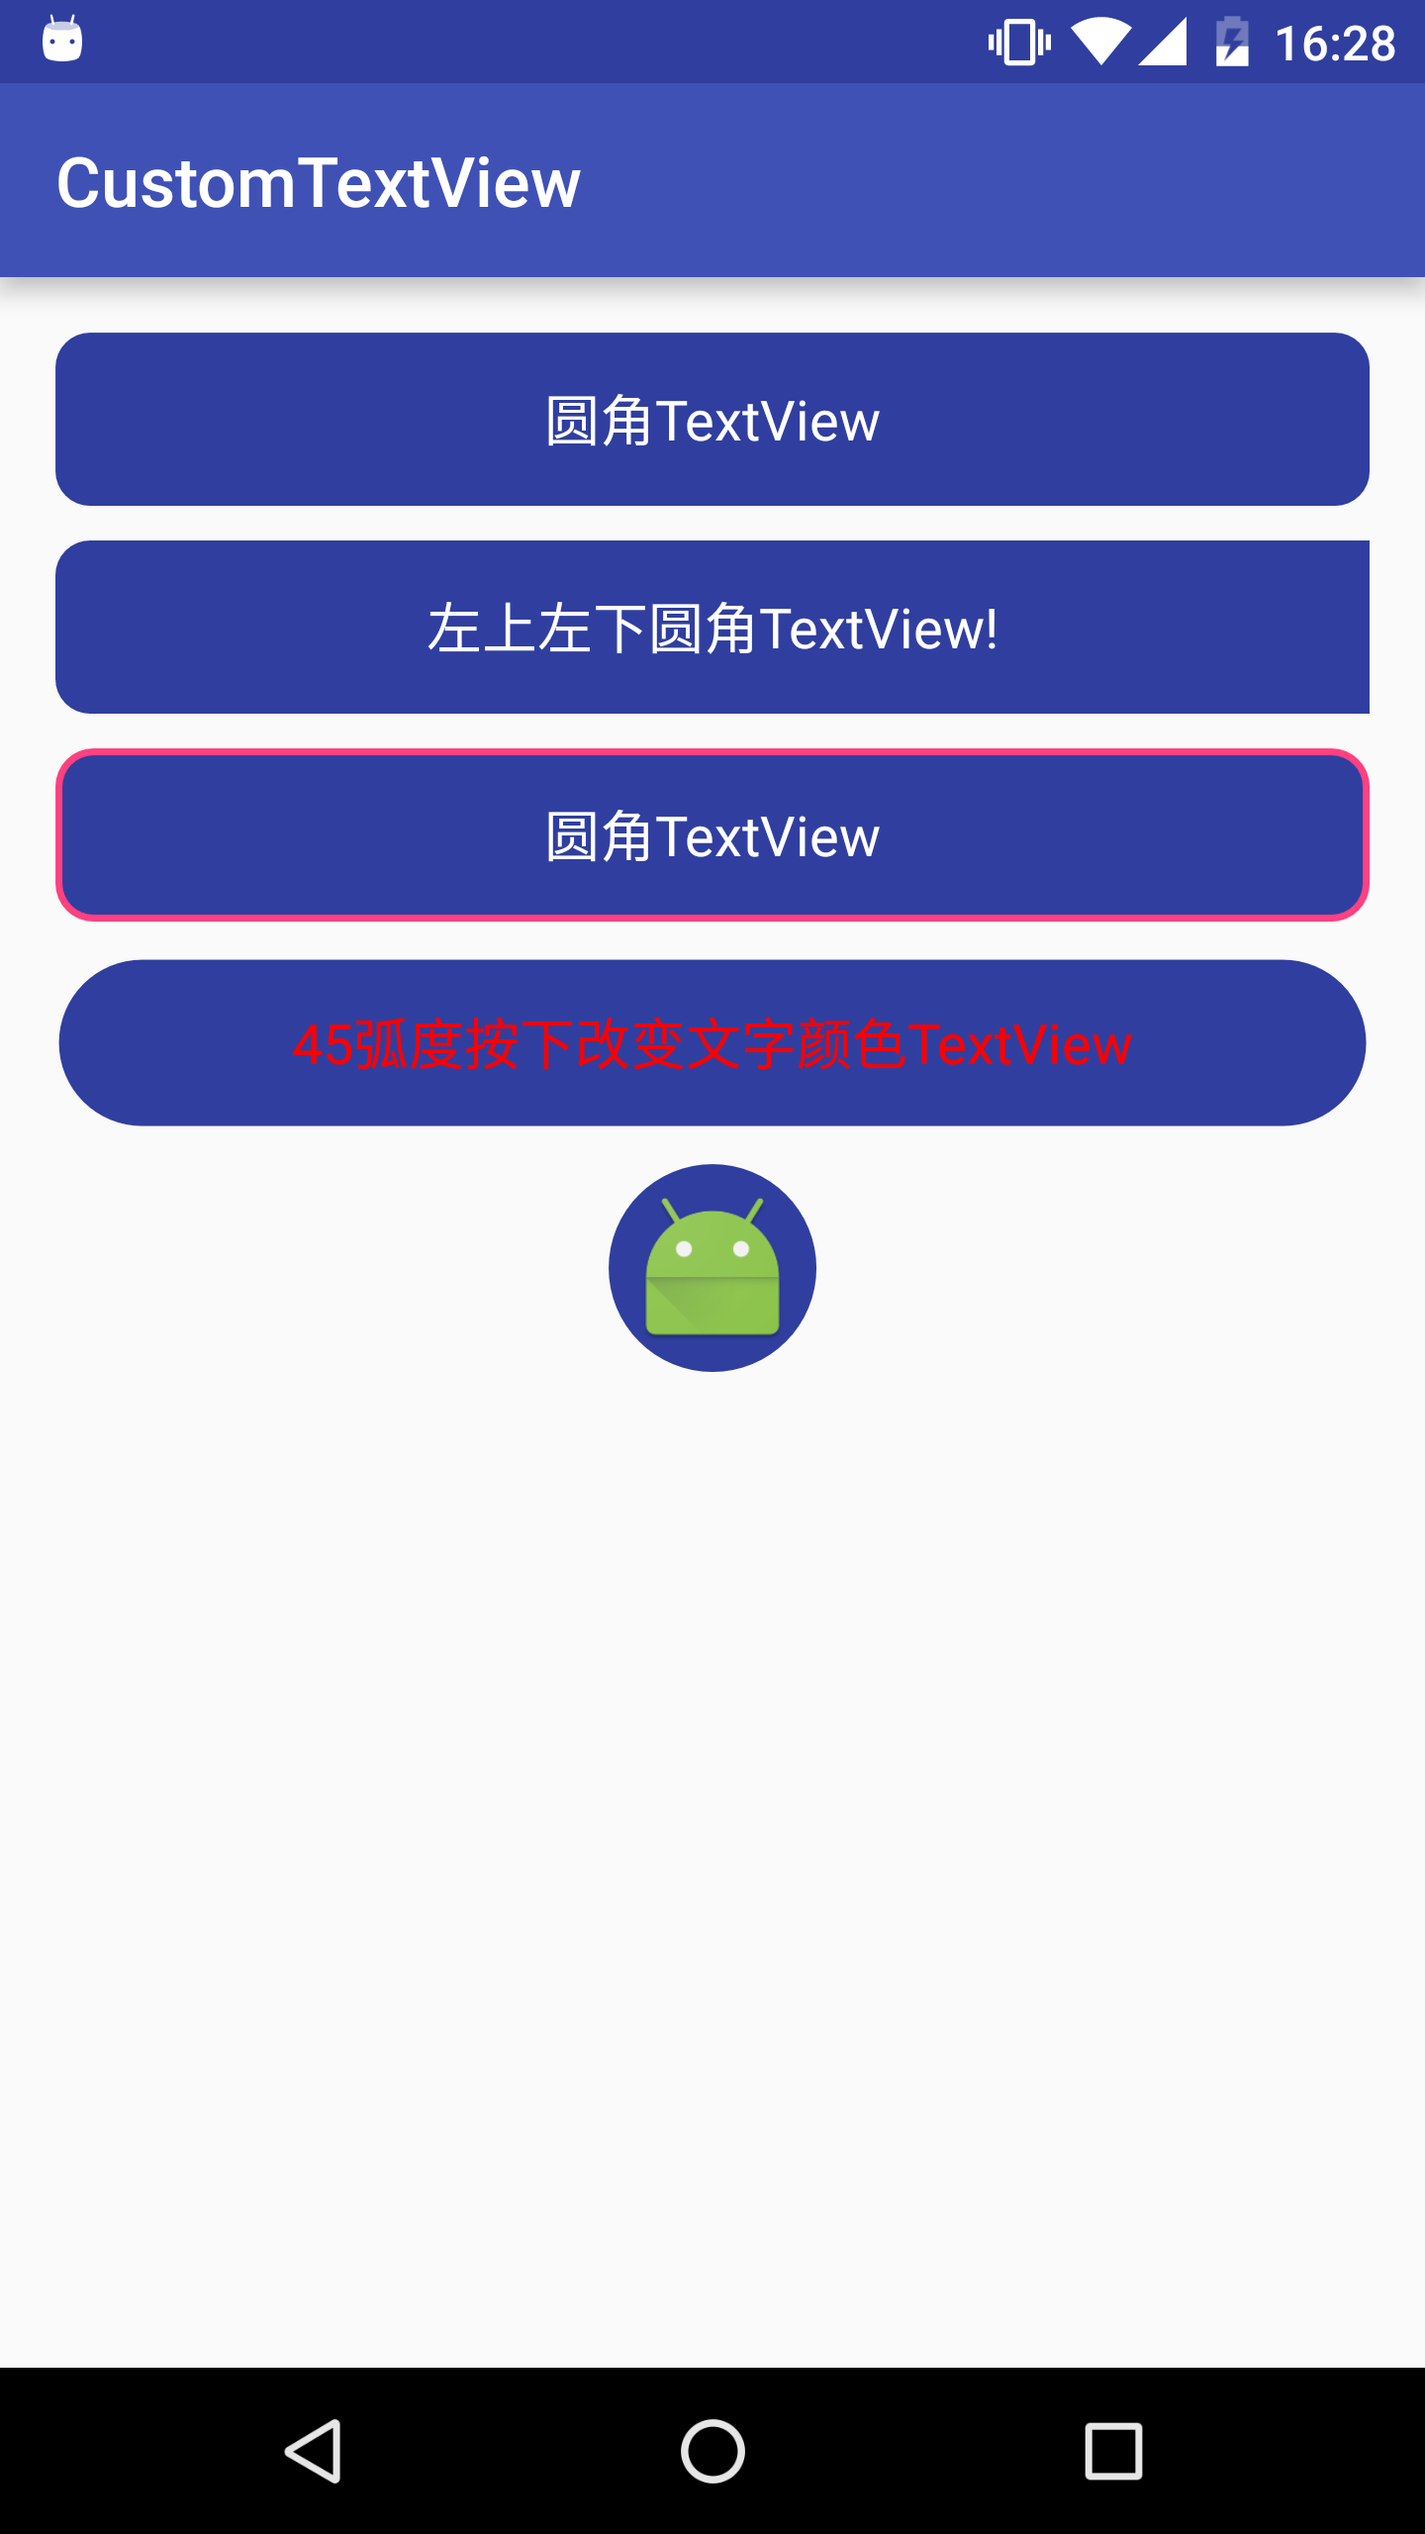
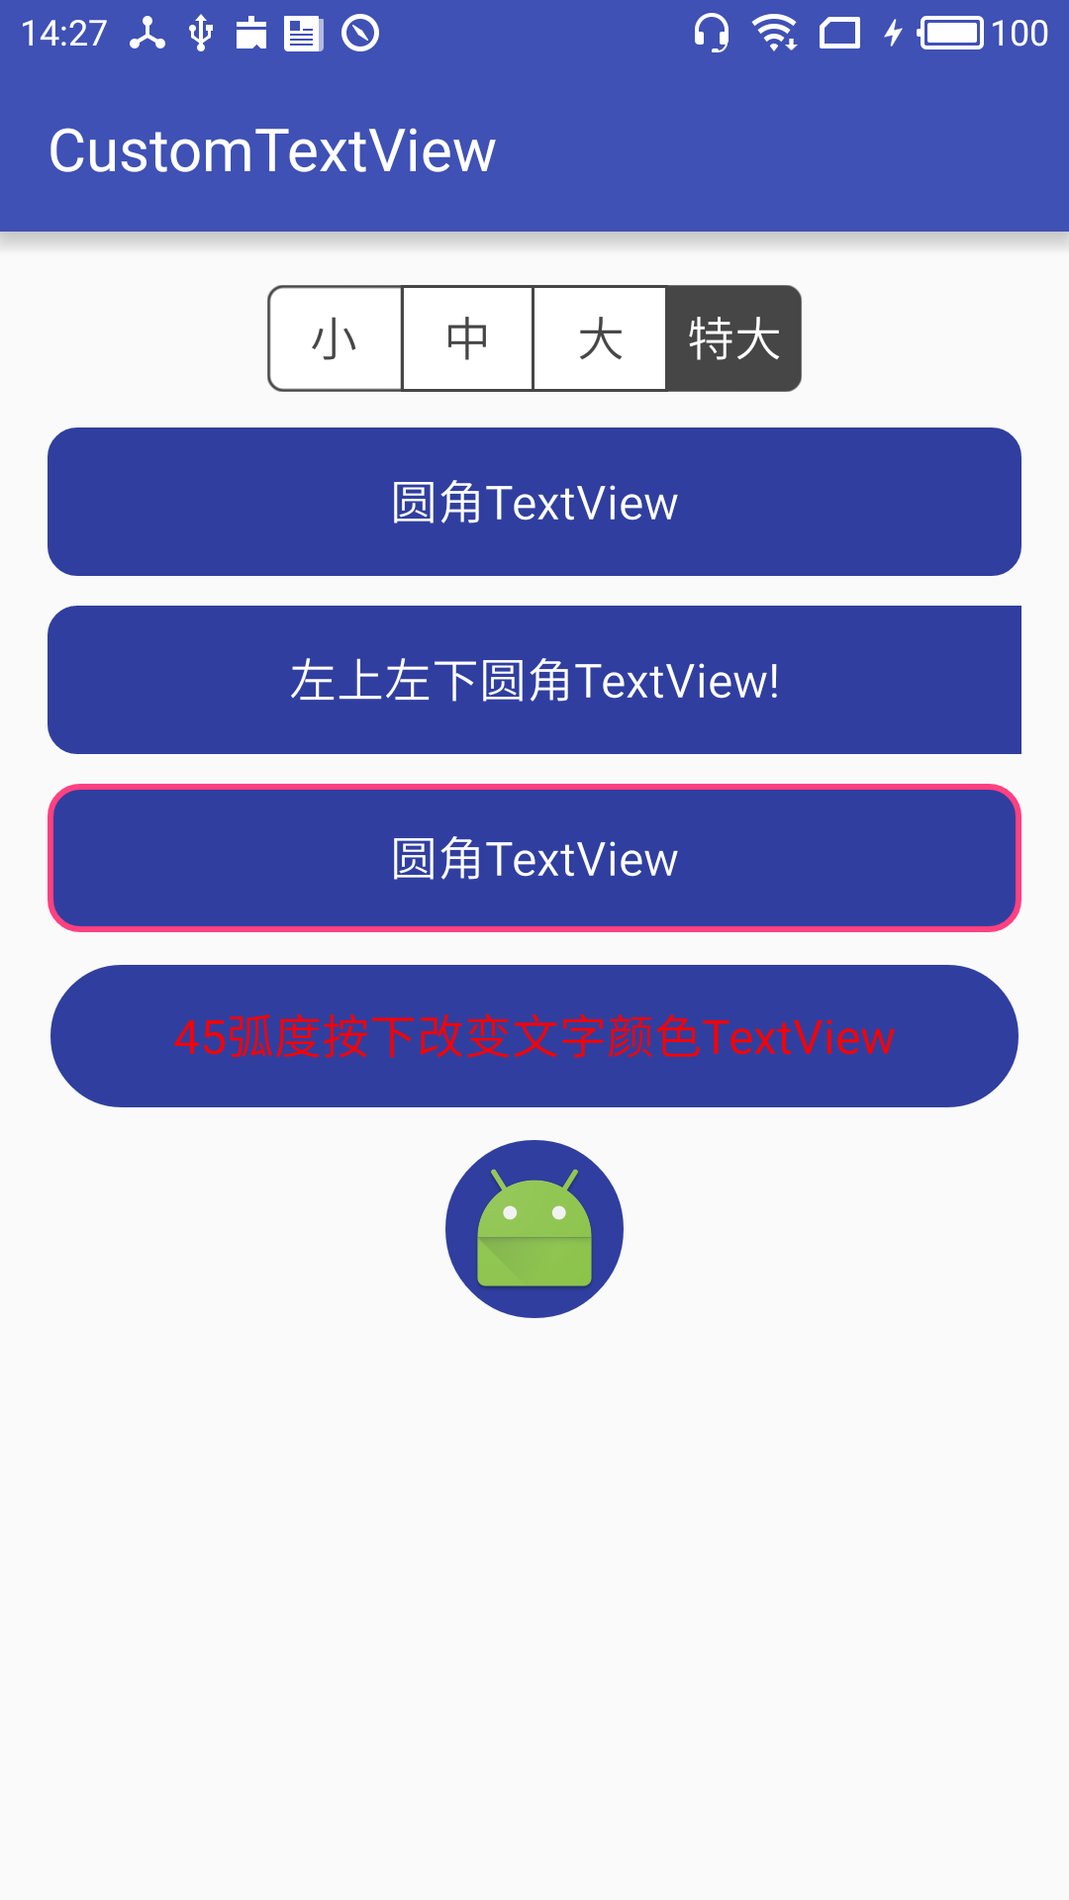
新增导航标签

diff --git a/library/src/main/java/com/library/CustomTextView.java b/library/src/main/java/com/library/CustomTextView.java
@@ -7,6 +7,8 @@ import android.graphics.Color;
 import android.graphics.drawable.BitmapDrawable;
 import android.graphics.drawable.Drawable;
 import android.graphics.drawable.GradientDrawable;
+import android.graphics.drawable.LayerDrawable;
+import android.graphics.drawable.StateListDrawable;
 import android.text.SpannableString;
 import android.text.Spanned;
 import android.text.style.ImageSpan;
@@ -21,7 +23,13 @@ import android.widget.TextView;
  */
 public class CustomTextView extends TextView {
 
-    private GradientDrawable drawable;
+    private GradientDrawable normalGD;
+    private GradientDrawable pressedGD;
+    private StateListDrawable selector;
+
+    private int strokeWidth;
+    private int radius;
+
 
     public CustomTextView(Context context) {
         super(context);
@@ -42,33 +50,41 @@ public class CustomTextView extends TextView {
     private void setAttributeSet(Context context, AttributeSet attrs) {
 
         TypedArray a = context.obtainStyledAttributes(attrs, R.styleable.customTextView);
-        int solid = a.getColor(R.styleable.customTextView_textSolidColor, Color.TRANSPARENT);
+//        int solid = a.getColor(R.styleable.customTextView_textSolidColor, Color.TRANSPARENT);
         int strokeColor = a.getColor(R.styleable.customTextView_textStrokeColor, Color.TRANSPARENT);
-        int radius = a.getDimensionPixelSize(R.styleable.customTextView_textRadius, 0);
+        radius = a.getDimensionPixelSize(R.styleable.customTextView_textRadius, 0);
         int leftTopRadius = a.getDimensionPixelSize(R.styleable.customTextView_textLeftTopRadius, 0);
         int leftBottomRadius = a.getDimensionPixelSize(R.styleable.customTextView_textLeftBottomRadius, 0);
         int rightTopRadius = a.getDimensionPixelSize(R.styleable.customTextView_textRightTopRadius, 0);
         int rightBottomRadius = a.getDimensionPixelSize(R.styleable.customTextView_textRightBottomRadius, 0);
-        int strokeWidth = a.getDimensionPixelSize(R.styleable.customTextView_textStrokeWidth, 0);
-        Drawable textDrawable = a.getDrawable(R.styleable.customTextView_textDrawable);
+        strokeWidth = a.getDimensionPixelSize(R.styleable.customTextView_textStrokeWidth, 0);
         int normalTextColor = a.getColor(R.styleable.customTextView_textNormalTextColor, Color.TRANSPARENT);
         int selectedTextColor = a.getColor(R.styleable.customTextView_textSelectedTextColor, Color.TRANSPARENT);
-
+        int normalSolidColor = a.getColor(R.styleable.customTextView_textNormalSolidColor,Color.TRANSPARENT);
+        int pressedSolidColor = a.getColor(R.styleable.customTextView_textPressedSolidColor,Color.TRANSPARENT);
+        boolean isSelected = a.getBoolean(R.styleable.customTextView_textIsSelected,false);
+        boolean noLeftStroke = a.getBoolean(R.styleable.customTextView_textNoLeftStroke,false);
+        boolean noRightStroke = a.getBoolean(R.styleable.customTextView_textNoRightStroke,false);
+        boolean noTopStroke = a.getBoolean(R.styleable.customTextView_textNoTopStroke,false);
+        boolean noBottomStroke = a.getBoolean(R.styleable.customTextView_textNoBottomStroke,false);
+        Drawable textDrawable = a.getDrawable(R.styleable.customTextView_textDrawable);
 
         a.recycle();
 
-        drawable = new GradientDrawable();
-        drawable.setStroke(strokeWidth, strokeColor);
-        drawable.setColor(solid);
+        selector = new StateListDrawable();
+        normalGD = new GradientDrawable();
+        pressedGD = new GradientDrawable();
 
-        if (radius > 0) {
-            drawable.setCornerRadius(radius);
-        } else if (leftTopRadius > 0 || leftBottomRadius > 0 || rightTopRadius > 0 || rightBottomRadius > 0) {
-            drawable.setCornerRadii(new float[]{leftTopRadius, leftTopRadius, rightTopRadius, rightTopRadius, rightBottomRadius, rightBottomRadius, leftBottomRadius, leftBottomRadius});
-        }
+        //set selected state
+        setPressedState(leftTopRadius,leftBottomRadius,rightBottomRadius,rightTopRadius,strokeColor,
+                pressedSolidColor,noLeftStroke,noRightStroke,noTopStroke,noBottomStroke,isSelected);
 
-        setBackgroundDrawable(drawable);
+        //set normal state
+        setNormalState(leftTopRadius,leftBottomRadius,rightBottomRadius,rightTopRadius,strokeColor,
+                normalSolidColor,noLeftStroke,noRightStroke,noTopStroke,noBottomStroke);
 
+        //设置selector
+        setBackgroundDrawable(selector);
 
         if (textDrawable != null) {
             BitmapDrawable bd = (BitmapDrawable) textDrawable;
@@ -85,22 +101,145 @@ public class CustomTextView extends TextView {
         if (normalTextColor != 0 && selectedTextColor != 0) {
             //设置state_selected状态时，和正常状态时文字的颜色
             setClickable(true);
-            int[][] states = new int[3][1];
-            states[0] = new int[]{android.R.attr.state_selected};
-            states[1] = new int[]{android.R.attr.state_pressed};
-            states[2] = new int[]{};
-            ColorStateList textColorSelect = new ColorStateList(states, new int[]{selectedTextColor, selectedTextColor, normalTextColor});
+            ColorStateList textColorSelect = null;
+
+            if (isSelected) { //是否可以选中
+                int[][] states = new int[2][1];
+                states[0] = new int[]{android.R.attr.state_selected};
+                states[1] = new int[]{};
+                textColorSelect = new ColorStateList(states, new int[]{selectedTextColor, normalTextColor});
+            }else{
+                int[][] states = new int[3][1];
+                states[0] = new int[]{android.R.attr.state_selected};
+                states[1] = new int[]{android.R.attr.state_pressed};
+                states[2] = new int[]{};
+                textColorSelect = new ColorStateList(states, new int[]{selectedTextColor,selectedTextColor,normalTextColor});
+            }
+
             setTextColor(textColorSelect);
         }else{
             setClickable(false);
         }
     }
 
+    /**
+     *
+     * 设置正常状态下drawable
+     *
+     * @param leftTopRadius            左上角角度
+     * @param leftBottomRadius         左下角角度
+     * @param rightBottomRadius        右下角角度
+     * @param rightTopRadius           右上角角度
+     * @param strokeColor              描边颜色
+     * @param normalSolid              正常状态下填充颜色
+     * @param noLeftStroke             无左描边
+     * @param noRightStroke            无右描边
+     * @param noTopStroke              无上描边
+     * @param noBottomStroke           无底描边
+     */
+    private void setNormalState(int leftTopRadius,int leftBottomRadius, int rightBottomRadius,int rightTopRadius,
+                                int strokeColor,int normalSolid,boolean noLeftStroke,
+                                boolean noRightStroke,boolean noTopStroke,boolean noBottomStroke){
+
+        //设置正常状态下填充色
+        normalGD.setColor(normalSolid);
+        //设置描边
+        normalGD.setStroke(strokeWidth, strokeColor);
+        //设置圆角
+        setRadius(normalGD,leftTopRadius,leftBottomRadius,rightBottomRadius,rightTopRadius);
+        //normal drawable
+        LayerDrawable normalLayerDrawable = new LayerDrawable(new Drawable[]{normalGD});
+        //设置正常状态下描边边距
+        setStrokeMargin(normalLayerDrawable,0,noLeftStroke,noRightStroke,noTopStroke,noBottomStroke);
+        //设置正常状态下的drawable
+        selector.addState(new int[]{}, normalLayerDrawable);
+    }
+
+    /**
+     * 设置按下状态drawable
+     *
+     * @param leftTopRadius            左上角角度
+     * @param leftBottomRadius         左下角角度
+     * @param rightBottomRadius        右下角角度
+     * @param rightTopRadius           右上角角度
+     * @param strokeColor              描边颜色
+     * @param pressedSolid             按下状态填充色
+     * @param noLeftStroke             无左描边
+     * @param noRightStroke            无右描边
+     * @param noTopStroke              无上描边
+     * @param noBottomStroke           无底描边
+     * @param isSelected               是否可以选择状态
+     */
+    private void setPressedState(int leftTopRadius,int leftBottomRadius,int rightBottomRadius,int rightTopRadius,
+                                 int strokeColor,int pressedSolid,boolean noLeftStroke,
+                                 boolean noRightStroke,boolean noTopStroke,boolean noBottomStroke,boolean isSelected){
+
+        if (pressedSolid != Color.TRANSPARENT) {
+            //设置按下填充色
+            pressedGD.setColor(pressedSolid);
+            //设置选中状态下描边边距
+            pressedGD.setStroke(strokeWidth, strokeColor);
+            //设置圆角
+            setRadius(pressedGD,leftTopRadius,leftBottomRadius,rightBottomRadius,rightTopRadius);
+
+            LayerDrawable pressedLayerDrawable = new LayerDrawable(new Drawable[]{pressedGD});
+            setStrokeMargin(pressedLayerDrawable,0,noLeftStroke,noRightStroke,noTopStroke,noBottomStroke);
+            //设置按下状态
+            if (isSelected) {
+                selector.addState(new int[]{android.R.attr.state_selected}, pressedLayerDrawable);
+            } else {
+                selector.addState(new int[]{android.R.attr.state_pressed}, pressedLayerDrawable);
+            }
+        }
+    }
+
+    /**
+     *
+     * 设置角度
+     *
+     * @param drawable                 drawable
+     * @param leftTopRadius            左上角角度
+     * @param leftBottomRadius         左下角角度
+     * @param rightBottomRadius        右下角角度
+     * @param rightTopRadius           右上角角度
+     *
+     */
+    private void setRadius(GradientDrawable drawable,int leftTopRadius,int leftBottomRadius,
+                           int rightBottomRadius,int rightTopRadius){
+        if (radius != 0) {
+            drawable.setCornerRadius(radius);
+        } else if (leftTopRadius != 0 || leftBottomRadius != 0 || rightTopRadius != 0 || rightBottomRadius != 0) {
+            drawable.setCornerRadii(new float[]{leftTopRadius, leftTopRadius, rightTopRadius,
+                    rightTopRadius, rightBottomRadius, rightBottomRadius, leftBottomRadius, leftBottomRadius});
+        }
+    }
+
+
+    /**
+     *
+     * 设置 button 四个边距
+     *
+     * @param layerDrawable    LayerDrawable
+     * @param index            下标
+     * @param left             左边距
+     * @param right            右边距
+     * @param top              上边距
+     * @param bottom           下边距
+     */
+    private void setStrokeMargin(LayerDrawable layerDrawable, int index , boolean left, boolean right, boolean top, boolean bottom){
+
+        int leftMargin = left ? -strokeWidth : 0;
+        int rightMargin = right ? -strokeWidth : 0;
+        int topMargin = top ? -strokeWidth : 0;
+        int bottomMargin = bottom ? -strokeWidth: 0;
+
+        layerDrawable.setLayerInset(index,leftMargin,topMargin,rightMargin,bottomMargin);
+    }
 
     /**
      * 设置填充图片
      *
-     * @param drawableId  drawable id
+     * @param drawableId  normalGD id
      */
     public void setTextDrawable(int drawableId) {
         if (drawableId != 0) {
@@ -123,8 +262,8 @@ public class CustomTextView extends TextView {
      * @param colorId   颜色id
      */
     public void setSolidColor(int colorId) {
-        drawable.setColor(colorId);
-        setBackgroundDrawable(drawable);
+        normalGD.setColor(colorId);
+        setBackgroundDrawable(normalGD);
     }
 
     /**
@@ -136,8 +275,8 @@ public class CustomTextView extends TextView {
      * @param rightBottomRadius     右下角弧度
      */
     public void setRadius(int leftTopRadius, int leftBottomRadius, int rightTopRadius, int rightBottomRadius) {
-        drawable.setCornerRadii(new float[]{leftTopRadius, leftTopRadius, rightTopRadius, rightTopRadius, rightBottomRadius, rightBottomRadius, leftBottomRadius, leftBottomRadius});
-        setBackgroundDrawable(drawable);
+        normalGD.setCornerRadii(new float[]{leftTopRadius, leftTopRadius, rightTopRadius, rightTopRadius, rightBottomRadius, rightBottomRadius, leftBottomRadius, leftBottomRadius});
+        setBackgroundDrawable(normalGD);
     }
 
     /**
@@ -147,7 +286,7 @@ public class CustomTextView extends TextView {
      * @param colorId          边框颜色 id
      */
     public void setStrokeColorAndWidth(int strokeWidth,int colorId){
-        drawable.setStroke(strokeWidth, getResources().getColor(colorId));
+        normalGD.setStroke(strokeWidth, getResources().getColor(colorId));
     }
 
 

diff --git a/app/src/main/java/com/textview/MainActivity.java b/app/src/main/java/com/textview/MainActivity.java
@@ -1,18 +1,34 @@
 package com.textview;
 
-import android.support.v7.app.AppCompatActivity;
 import android.os.Bundle;
+import android.support.v7.app.AppCompatActivity;
+import android.view.View;
 
 import com.library.CustomTextView;
 
-public class MainActivity extends AppCompatActivity {
+public class MainActivity extends AppCompatActivity implements View.OnClickListener{
 
     private CustomTextView mTextView1;
+
+    private CustomTextView mSmallTextView;
+    private CustomTextView mNormalTextView;
+    private CustomTextView mBigTextView;
+    private CustomTextView mLargeTextView;
 
     @Override
     protected void onCreate(Bundle savedInstanceState) {
         super.onCreate(savedInstanceState);
         setContentView(R.layout.activity_main);
+
+        mSmallTextView = (CustomTextView) findViewById(R.id.bt_font_size_small);
+        mNormalTextView = (CustomTextView) findViewById(R.id.bt_font_size_normal);
+        mBigTextView = (CustomTextView) findViewById(R.id.bt_font_size_big);
+        mLargeTextView = (CustomTextView) findViewById(R.id.bt_font_size_large);
+
+        mSmallTextView.setOnClickListener(this);
+        mNormalTextView.setOnClickListener(this);
+        mBigTextView.setOnClickListener(this);
+        mLargeTextView.setOnClickListener(this);
 
 //        mTextView1 = (CustomTextView) findViewById(R.id.tv_1);
 //
@@ -22,5 +38,35 @@ public class MainActivity extends AppCompatActivity {
 //        mTextView1.setRadius(radius,radius,radius,radius);
 //        mTextView1.setSelectedTextColor(R.color.color_00ff00,R.color.color_ff0000);
 //        mTextView1.setStrokeColorAndWidth(2,R.color.color_3f51b5);
+    }
+
+    @Override
+    public void onClick(View v) {
+        switch (v.getId()){
+            case R.id.bt_font_size_small:
+                mSmallTextView.setSelected(true);
+                mNormalTextView.setSelected(false);
+                mBigTextView.setSelected(false);
+                mLargeTextView.setSelected(false);
+                break;
+            case R.id.bt_font_size_normal:
+                mSmallTextView.setSelected(false);
+                mNormalTextView.setSelected(true);
+                mBigTextView.setSelected(false);
+                mLargeTextView.setSelected(false);
+                break;
+            case R.id.bt_font_size_big:
+                mSmallTextView.setSelected(false);
+                mNormalTextView.setSelected(false);
+                mBigTextView.setSelected(true);
+                mLargeTextView.setSelected(false);
+                break;
+            case R.id.bt_font_size_large:
+                mSmallTextView.setSelected(false);
+                mNormalTextView.setSelected(false);
+                mBigTextView.setSelected(false);
+                mLargeTextView.setSelected(true);
+                break;
+        }
     }
 }

diff --git a/README.md b/README.md
@@ -8,9 +8,14 @@
 
 <br/>
 
+## 更新
+
+ * 新增 noLeftStroke、noTopStroke、noRightStroke、noBottomStroke 四个属性.
+ * 重新命名四个属性 normalSolidColor、pressedSolidColor、normalStrokeColor、pressedStrokeColor、roundLeftTopRadius、roundLeftBottomRadius、roundRightTopRadius、roundRightBottomRadius.
+ * 增加一个实现导航标签事例 用xml实现.
+        
 ## 属性
 
-          textSolidColor                                 背景填充色
           textStrokeColor                                边框颜色 
           textRadius                                     textView弧度
           textLeftTopRadius                              textView左上角弧度   
@@ -21,6 +26,13 @@
           textDrawable                                   图片
           textNormalTextColor                            正常状态文字颜色
           textSelectedTextColor                          按下状态文字颜色
+          textNoLeftStroke                               无左描边线
+          textNoRightStroke                              无右描边线
+          textNoTopStroke                                无上描边线
+          textNoBottomStroke                             无底部描边线
+          textPressedSolidColor                          按下填充色
+          textNormalSolidColor                           正常背景填充色
+          textIsSelected                                 是否支持button选中状态 与setSelected()配合使用
           
 ## 用法
  * xml中使用方法
